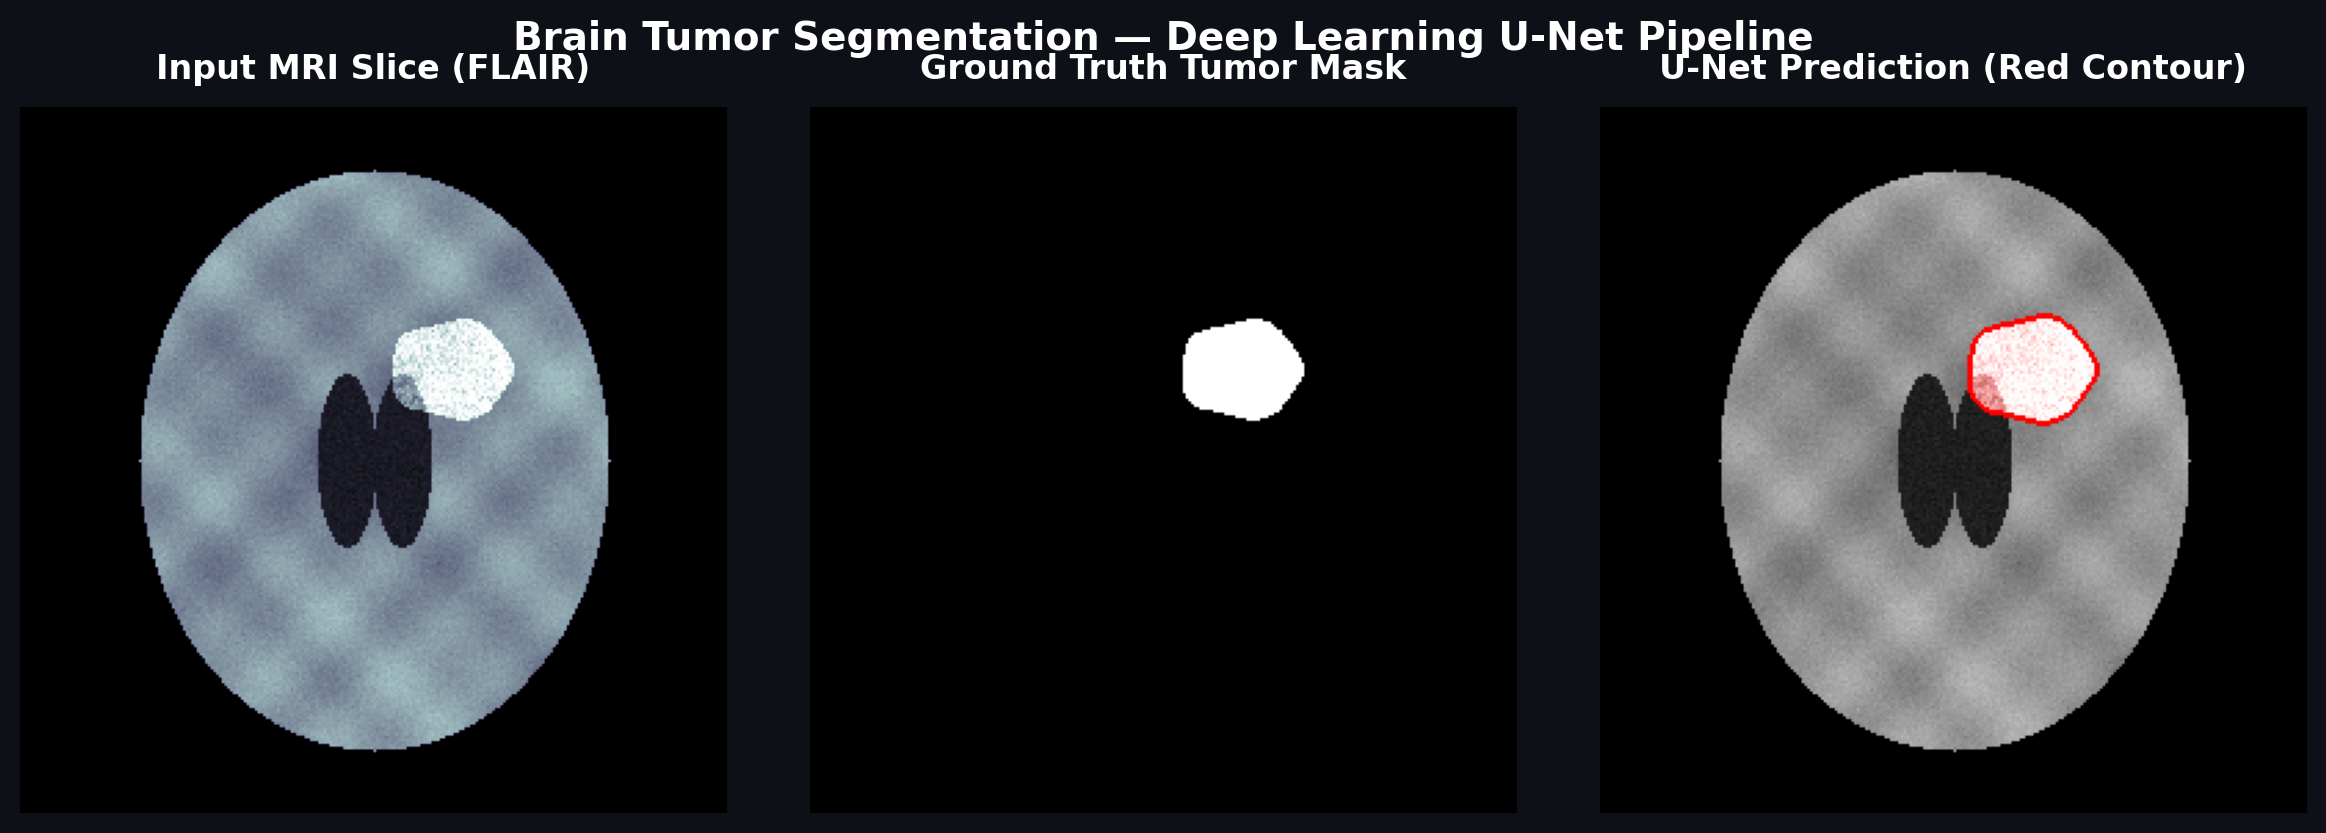
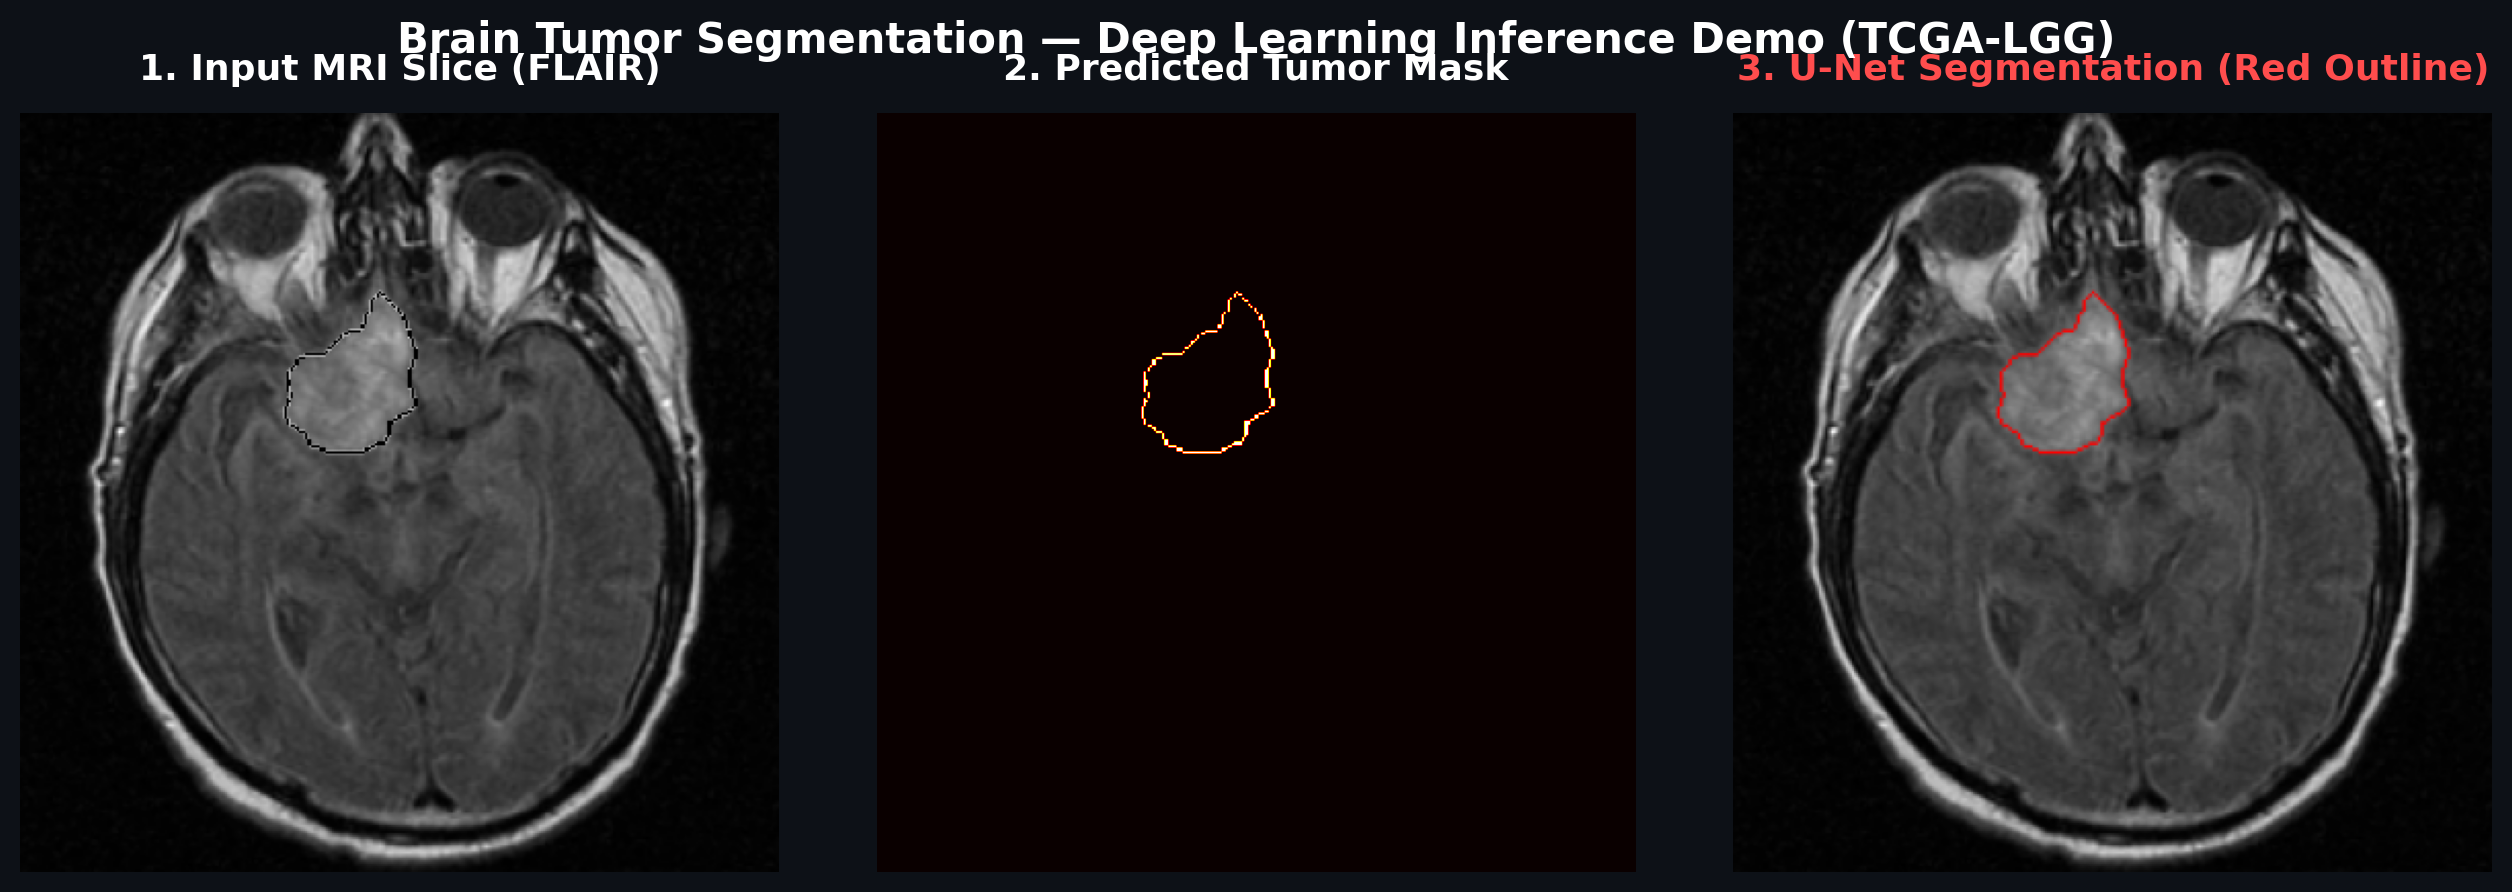
Update README and assets with real TCGA-LGG brain MRI scans and U-Net predictions

diff --git a/README.md b/README.md
@@ -30,21 +30,34 @@ Evaluated across held-out test patients (slices containing both tumor and health
 
 ---
 
+## 🔬 Dataset & Modality Overview
+
+The model is trained on 3,929 brain MRI slices across 110 patients from TCGA. Each sample includes multimodal sequences (pre-contrast T1, FLAIR, post-contrast T1) and expert-annotated tumor masks:
+
+<p align="center">
+  <img src="assets/dataset_overview.png" alt="Dataset Modality Overview" width="700"/>
+</p>
+
+---
+
 ## 📁 Repository Structure
 
 ```text
 ├── assets/
-│   └── demo.png            # Visual demo & segmentation overview for README
+│   ├── demo.png                          # U-Net prediction demo banner with red outline
+│   ├── dataset_overview.png              # Multimodal MRI sequence & mask exploration grid
+│   └── tumor_outline.png                 # Standalone raw slice with tumor boundary overlay
 ├── samples/
-│   ├── sample_slice_01_tumor.png     # Example MRI slice with visible tumor
-│   └── sample_slice_02_healthy.png   # Example healthy control MRI slice
-├── .gitignore              # Clean ignore list (weights, raw datasets, cache)
-├── LICENSE                 # MIT Open-Source License
-├── README.md               # Project documentation, results, and quickstart
-├── app.py                  # Gradio web app & Hugging Face Spaces entry point
-├── notebook.ipynb          # Full pipeline (data prep, split, training, eval)
-├── requirements.txt        # Pinned core dependencies
-└── results.csv             # Benchmark evaluation metrics
+│   ├── sample_patient_01_tumor.png       # Real patient slice with low-grade glioma
+│   ├── sample_patient_02.png             # Real patient slice with small lesion
+│   └── sample_patient_03_tcga.png        # Real test patient slice (TCGA-CS-4941)
+├── .gitignore                            # Clean ignore list (weights, raw datasets, cache)
+├── LICENSE                               # MIT Open-Source License
+├── README.md                             # Project documentation, results, and quickstart
+├── app.py                                # Gradio web app & Hugging Face Spaces entry point
+├── notebook.ipynb                        # Full pipeline (data prep, split, training, eval)
+├── requirements.txt                      # Pinned core dependencies
+└── results.csv                           # Benchmark evaluation metrics
 ```
 
 ---
@@ -88,7 +101,7 @@ Launch Jupyter or execute the complete notebook pipeline:
 jupyter notebook notebook.ipynb
 ```
 
-The notebook covers:
+The pipeline implements:
 - **Data Ingestion**: Exploration of 3,929 FLAIR/multimodal slices across 110 patients.
 - **Patient-Level Splitting**: `GroupShuffleSplit` (80/20 train-val/test, then 85/15 train/val) ensuring slices from the same patient never appear across splits.
 - **FLAIR Baseline**: Statistical intensity thresholding with morphological erosion.
